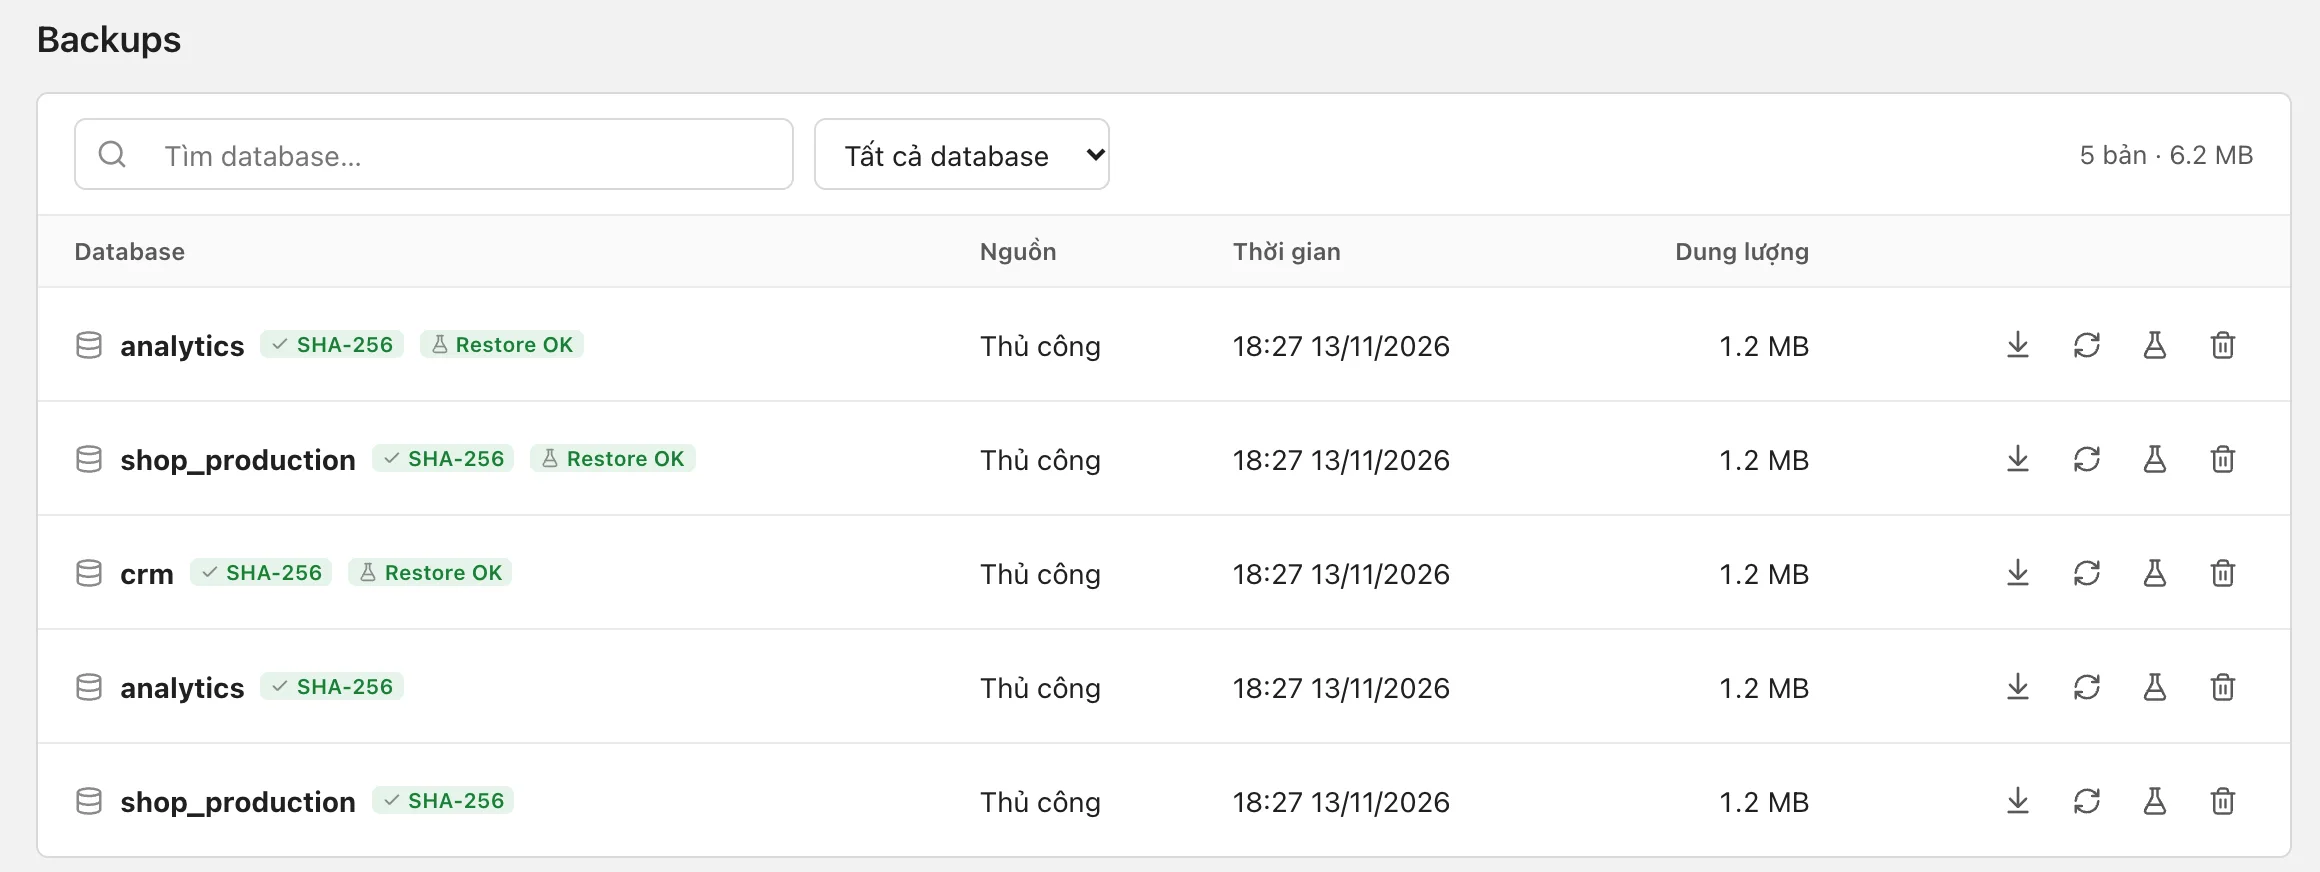
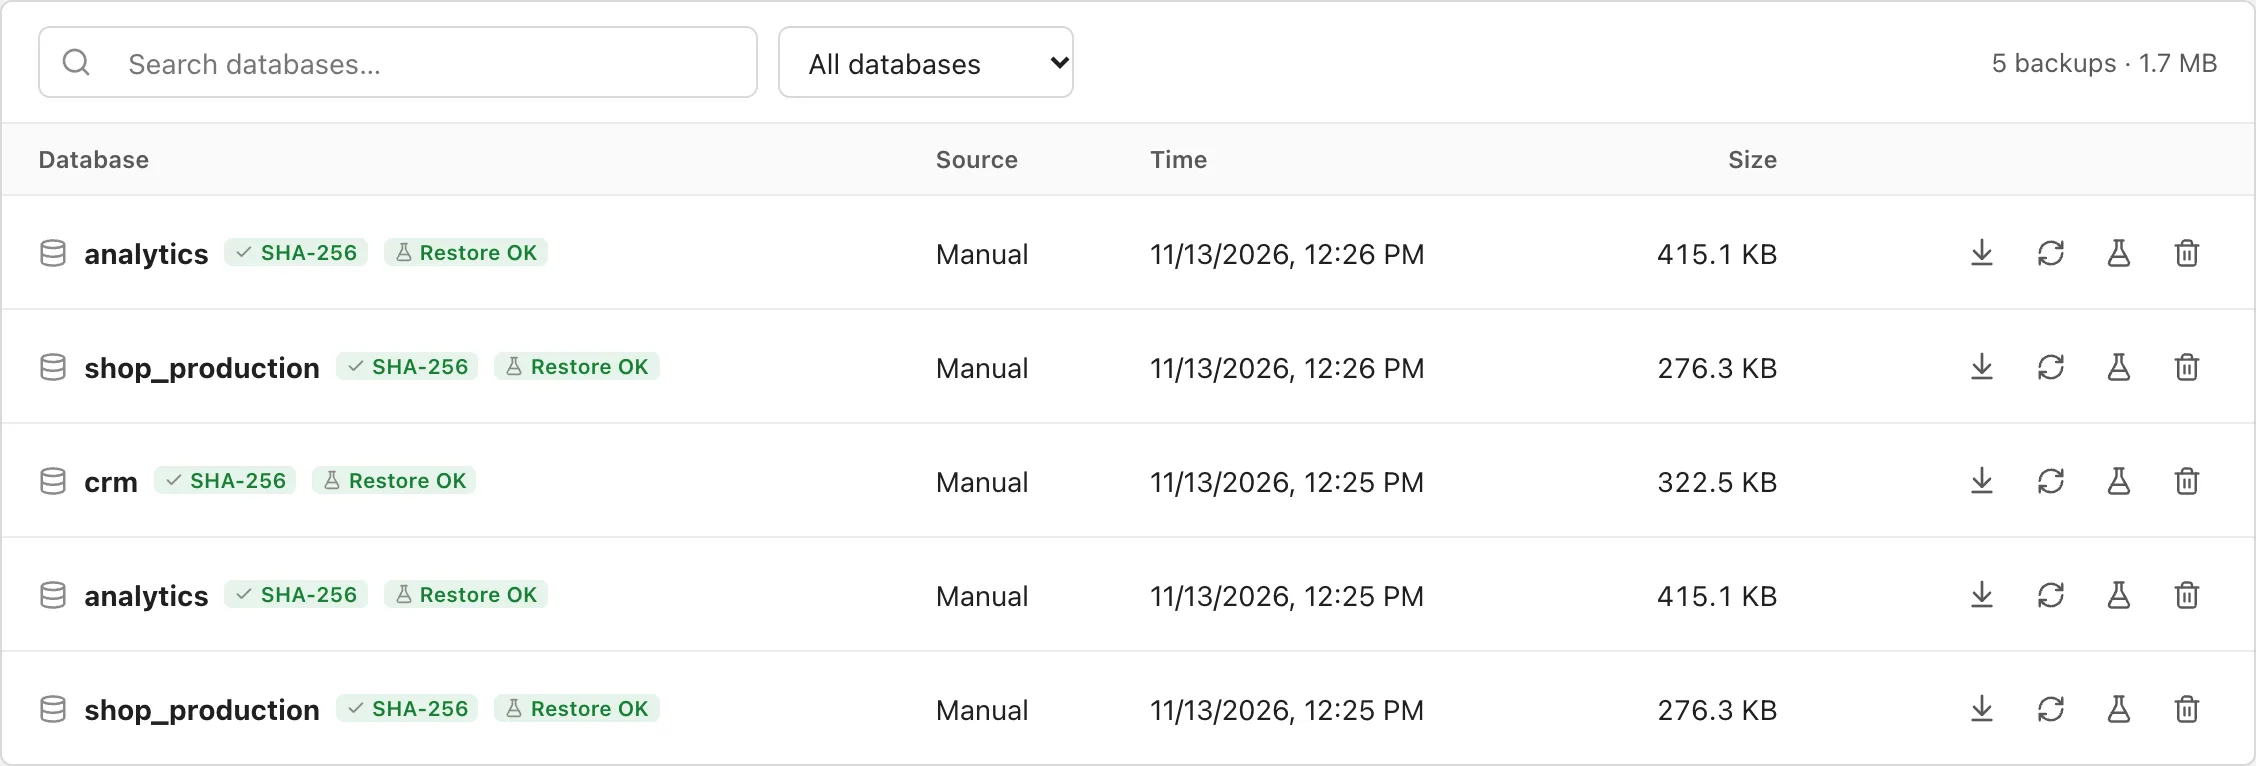
docs: add English UI screenshots to README and product page
Retake overview, backups, schedules and add-connection screenshots with
the English UI on demo data, show them in a new README Screenshots
section, and update image dimensions on the product page.

diff --git a/docs/index.html b/docs/index.html
@@ -95,8 +95,8 @@
           <figure class="frame">
             <img
               src="./images/schedules.webp"
-              width="2320"
-              height="724"
+              width="2256"
+              height="416"
               loading="lazy"
               alt="Schedules table with three backup schedules, cron expressions, next run times and retention days."
             />
@@ -116,8 +116,8 @@
           <figure class="frame">
             <img
               src="./images/backups.webp"
-              width="2320"
-              height="872"
+              width="2256"
+              height="766"
               loading="lazy"
               alt="Backup list of a PostgreSQL connection, each row labeled SHA-256 and Restore OK."
             />
@@ -138,7 +138,7 @@
             <img
               src="./images/add-connection.webp"
               width="1120"
-              height="1624"
+              height="1628"
               loading="lazy"
               alt="Add connection dialog with database type, host, port, account and an optional restore account."
             />

diff --git a/README.md b/README.md
@@ -2,9 +2,14 @@
 
 A self-hosted web app for managing backups and restores of PostgreSQL, MySQL/MariaDB, MongoDB, SQL Server and file directories. Manage multiple connections, schedule backups, keep encrypted copies in the cloud and track results in one place.
 
+![Overview of a PostgreSQL connection: databases, backups, active schedules and recent backups with restore test results](docs/images/overview.webp)
+
+**Website:** https://vinhnotes.github.io/db-backup-manager/
+
 ## Contents
 
 - [Features](#features)
+- [Screenshots](#screenshots)
 - [Quick start with Docker Compose](#quick-start-with-docker-compose)
 - [Supported databases](#supported-databases)
 - [Configuration and deployment](#configuration-and-deployment)
@@ -30,6 +35,22 @@ A self-hosted web app for managing backups and restores of PostgreSQL, MySQL/Mar
 - User management, per-connection/per-database permissions and an activity log; customizable name, logo and schedule timezone.
 - HTTPS with an auto-generated or your own certificate. The container runs as a non-root user, supports a read-only root filesystem and needs neither the Docker socket nor the Portainer API.
 - UI in English, Vietnamese and Japanese.
+
+## Screenshots
+
+**Backups**: every backup is verified with SHA-256 and shows its restore test result.
+
+![Backup list of a PostgreSQL connection, each row labeled SHA-256 and Restore OK](docs/images/backups.webp)
+
+**Schedules**: cron schedules with next run time and retention.
+
+![Schedules table with cron expressions, next run times and retention days](docs/images/schedules.webp)
+
+**Add connection**: test the connection before saving, with an optional separate restore account.
+
+<img src="docs/images/add-connection.webp" width="420" alt="Add connection dialog with database type, host, port, account and an optional restore account">
+
+_Screenshots of the real app running with demo data._
 
 ## Quick start with Docker Compose
 
